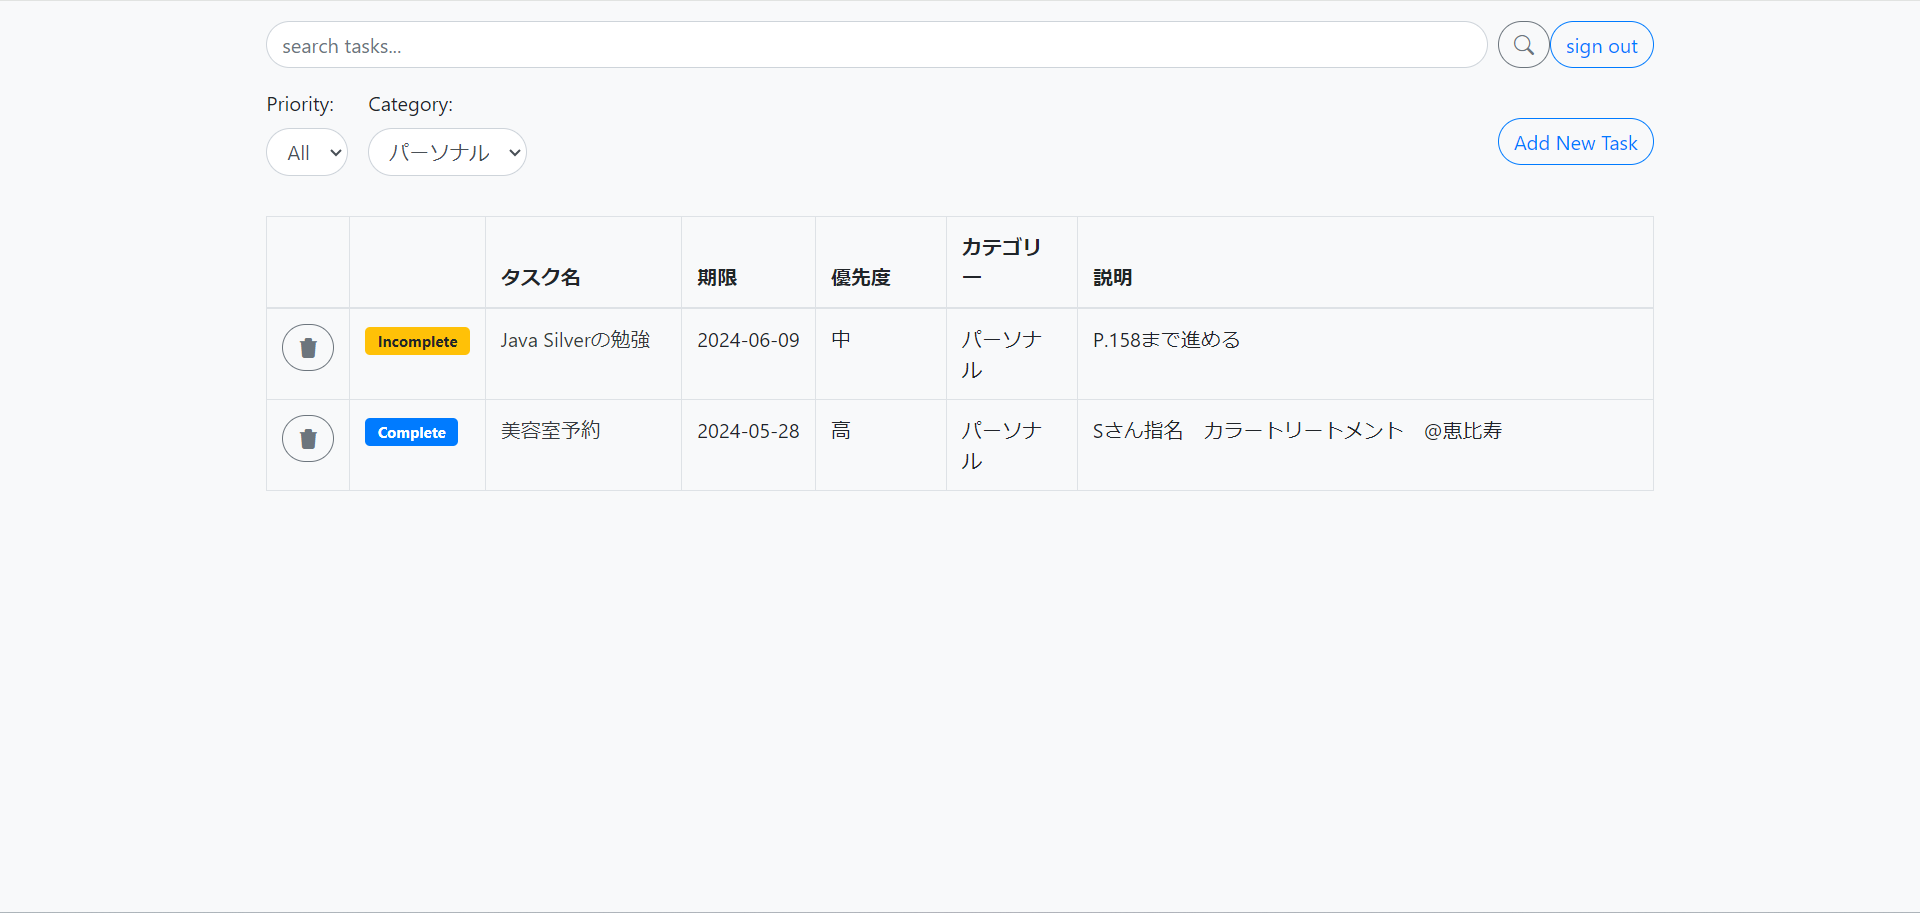
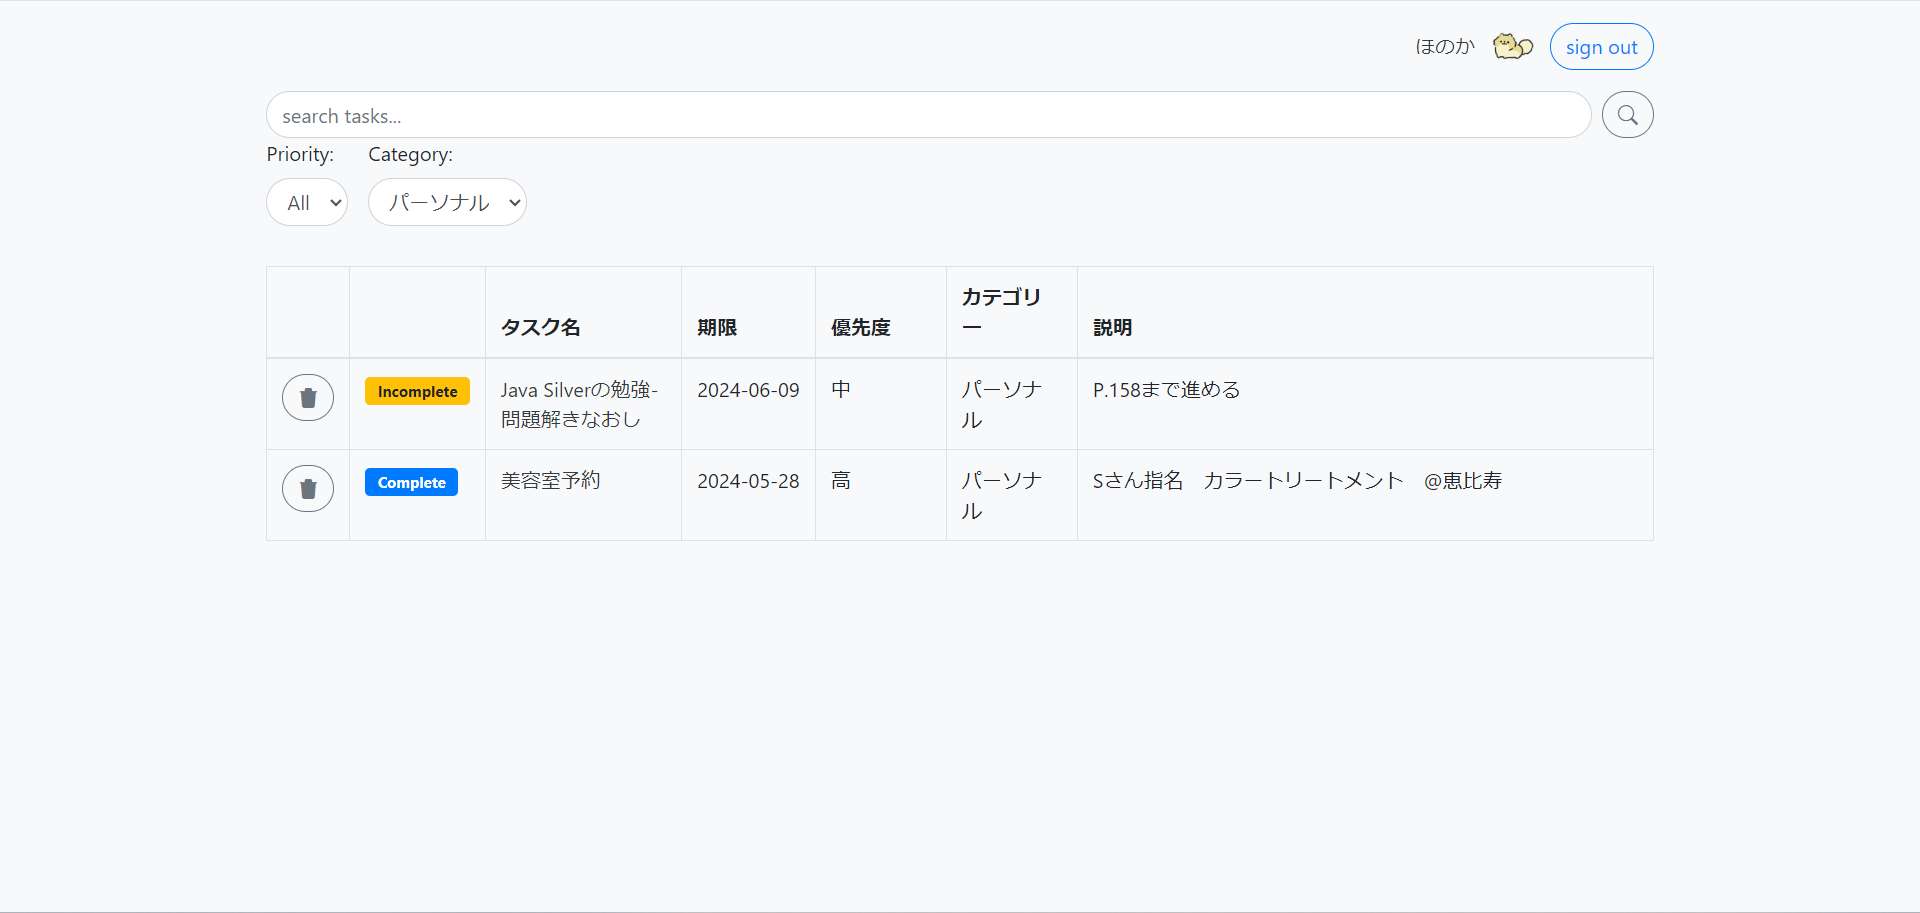
change screenshots for README

diff --git a/src/main/java/jp/eightbit/exam/todoapp/controller/TaskController.java b/src/main/java/jp/eightbit/exam/todoapp/controller/TaskController.java
@@ -145,7 +145,10 @@ public class TaskController {
 		String username = authentication.getName();
 		List<Task> tasks = taskService.searchTasksByTaskName(username, name);
 		model.addAttribute("tasks", tasks);
-		model.addAttribute("seachName", name);
+		model.addAttribute("searchName", name);
+		
+		User user = userService.findByUsername(username);
+		model.addAttribute("user", user);
 		return "taskList";
 	}
 }
